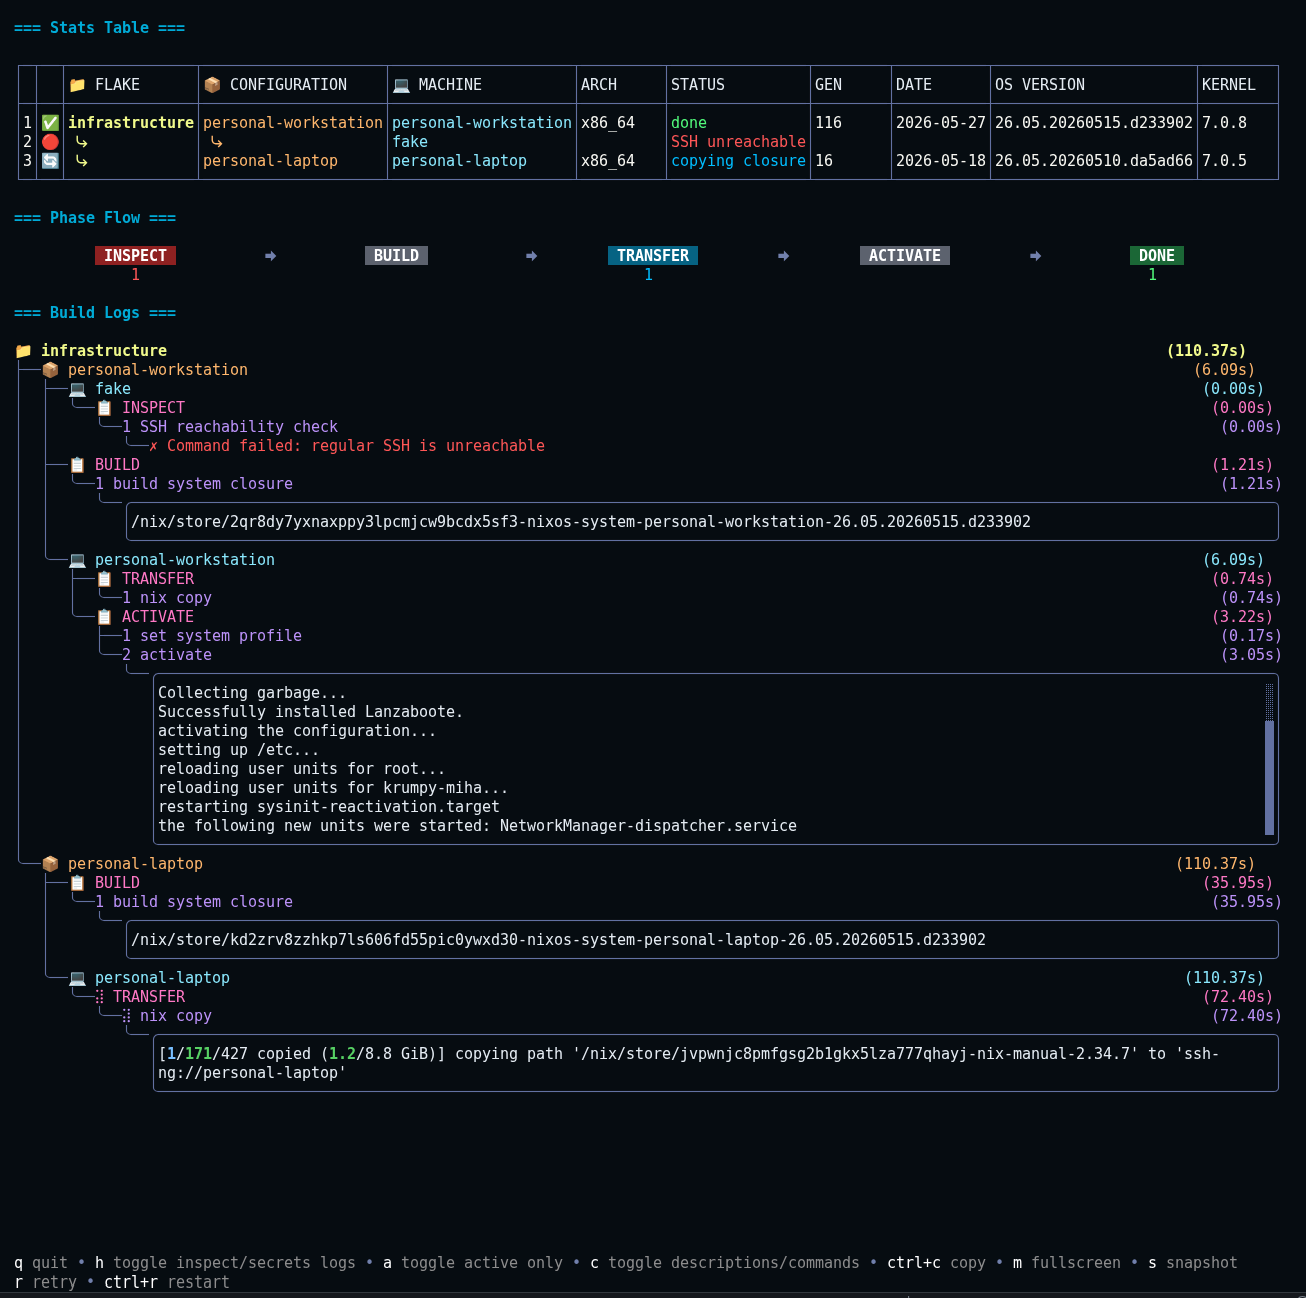
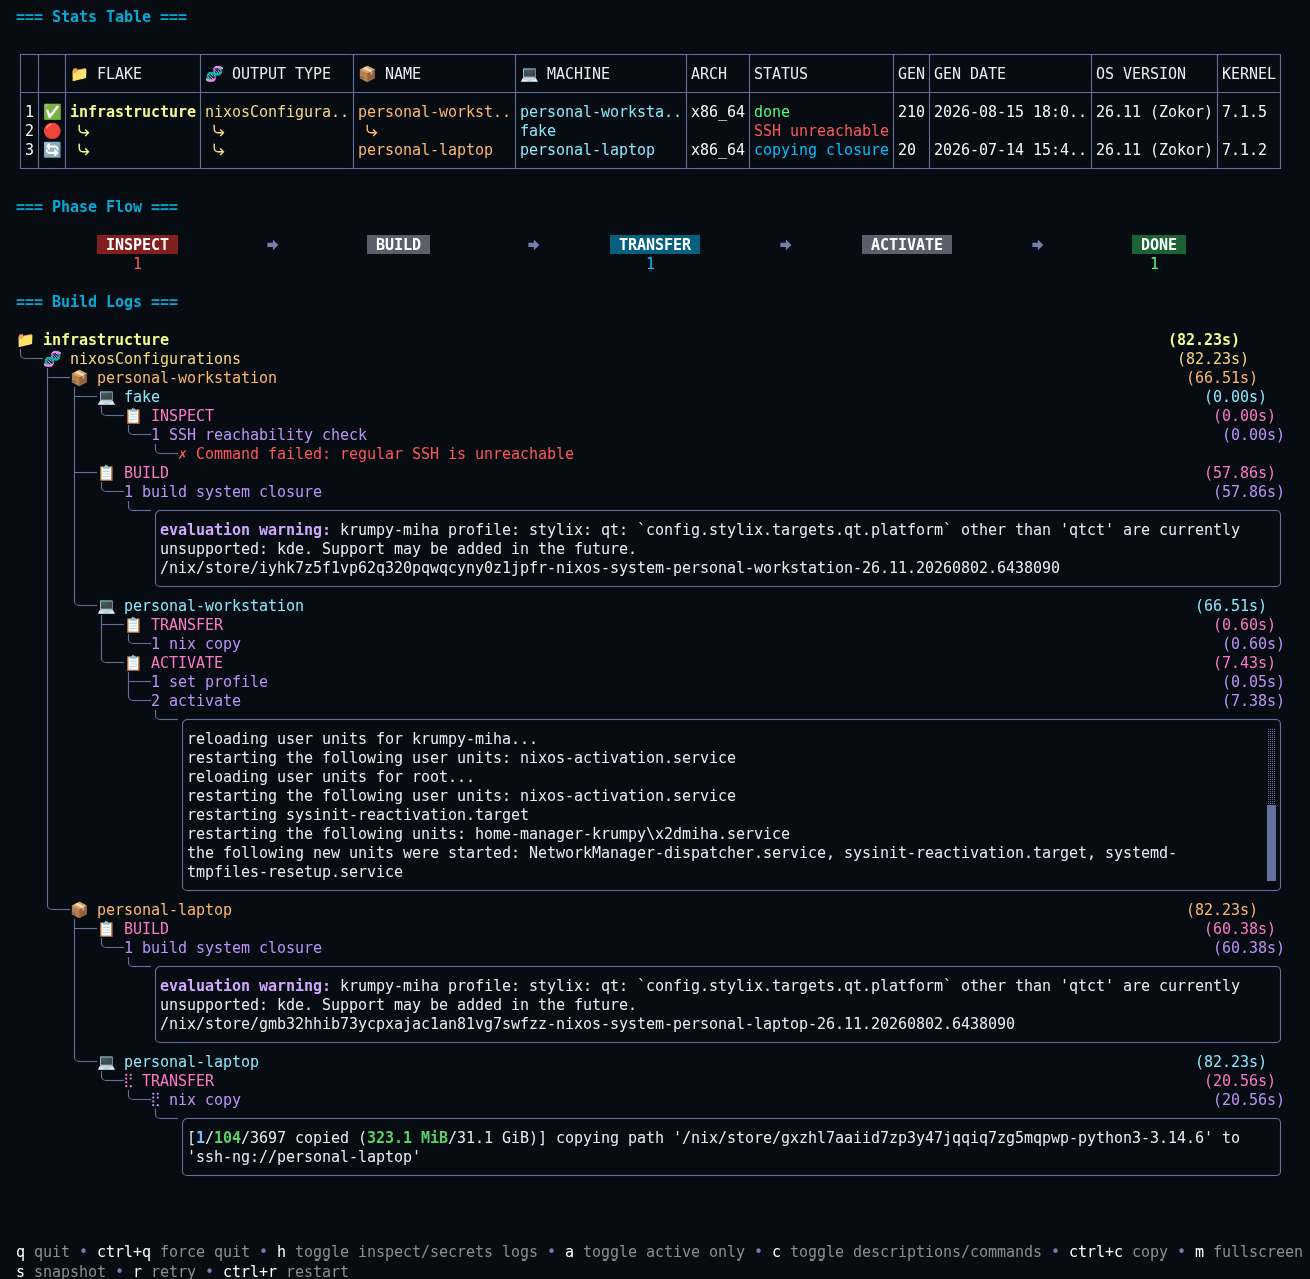
misc: update assets and docs, improve SSH error handling, add optional cachix cache

diff --git a/internal/executioner/ssh.go b/internal/executioner/ssh.go
@@ -3,7 +3,7 @@ package executioner
 func (ex *Executioner) sshStream(description, statusIfRunning, statusIfFailed string, commandWithArgs []string, excOpt *ExecOptions) error {
 	ssh := ex.conf.Machine.GetActiveSSH()
 
-	sshCommandWithArgs := []string{"ssh", "-q"} // Silence banners
+	sshCommandWithArgs := []string{"ssh", "-o", "LogLevel=ERROR"}
 	sshCommandWithArgs = append(sshCommandWithArgs, ssh.MaybeSSHCommandArguments()...)
 	sshCommandWithArgs = append(sshCommandWithArgs, ssh.SSHTarget())
 

diff --git a/CONTRIBUTING.md b/CONTRIBUTING.md
@@ -19,6 +19,10 @@ task
 
 Code has to pass `task ci` checks, if larger or critical sections were changed, then also `task go:test:e2e`.
 
+## Binary cache
+
+CI pushes Nix build results to the [mihakrumpestar Cachix cache](https://app.cachix.org/cache/mihakrumpestar). Pushing requires the `CACHIX_AUTH_TOKEN` secret to be set on the repository; without it the workflow skips pushing and only builds.
+
 ## Testing Conventions
 
 - **Table-driven tests**: use `[]struct{ name string; ... }` with `t.Run(tt.name, func(t *testing.T) { ... })`. See existing tests for examples.
@@ -43,18 +47,24 @@ Future potential/to-do list (by priority):
 
 The following packages were inadequate for use for Panix:
 
-- [bubbletea](https://github.com/charmbracelet/bubbletea): too slow, it is severly unoptimized
+- [bubbletea](https://github.com/charmbracelet/bubbletea): too slow, it is severely unoptimized
 - [Koanf link to issue](https://github.com/knadh/koanf/issues/221)
 - [Viper link to issue](https://github.com/spf13/viper/issues/819)
 - [urfave/cli](https://github.com/urfave/cli): using with [sflags](https://github.com/urfave/sflags) keeps placeholders just as "value" in help, does not properly generate env vars and flag names (have to manually specify them)
-- [nix-fast-build](https://github.com/Mic92/nix-fast-build) instead of `nix build`: speed is about the same, and it does not seem to provide a meaningfull benefit over `nix build`
+- [nix-fast-build](https://github.com/Mic92/nix-fast-build) instead of `nix build`: speed is about the same, and it does not seem to provide a meaningful benefit over `nix build`
 
 ## Demo video
 
 Record using OBS with [these settings](assets/obs), and show keys on screen:
 
 ```sh
-nix-shell -p showmethekey --command showmethekey-gtk
+nix-shell -p showmethekey --command "sudo showmethekey-gtk"
+```
+
+Trim later if needed with:
+
+```sh
+nix run nixpkgs#losslesscut
 ```
 
 ### GIF
@@ -62,7 +72,7 @@ nix-shell -p showmethekey --command showmethekey-gtk
 Convert using ([article](https://www.ffmpeg.media/articles/working-with-gifs-convert-optimize)):
 
 ```sh
-ffmpeg -i demo.mp4 -vf "fps=10,scale=iw*0.8:-1:flags=lanczos,format=rgba,eq=saturation=1:contrast=1.3,split[s0][s1];[s0]palettegen=stats_mode=diff[p];[s1][p]paletteuse=dither=bayer:bayer_scale=5:diff_mode=rectangle" -loop 0 demo.gif
+nix run nixpkgs#ffmpeg -- -i demo.mp4 -vf "fps=10,scale=iw*0.8:-1:flags=lanczos,format=rgba,eq=saturation=1:contrast=1.3,split[s0][s1];[s0]palettegen=stats_mode=diff[p];[s1][p]paletteuse=dither=bayer:bayer_scale=5:diff_mode=rectangle" -loop 0 demo.gif
 ```
 
 ### MP4

diff --git a/README.md b/README.md
@@ -32,7 +32,7 @@
 
 ## Demo
 
-![Demo](https://github.com/user-attachments/assets/55b2a31c-cd79-419b-9f10-63fc9d5130a6)
+![Demo](https://github.com/user-attachments/assets/eb1a5539-65f0-4a75-b5de-5a7988e89036)
 
 Screenshot:
 
@@ -144,6 +144,8 @@ And run it with:
 ```sh
 nix run github:mihakrumpestar/panix -- deploy
 ```
+
+Prebuilt binaries are available from a Cachix cache; see the [installation docs](https://panix.xyz/getting-started/installation/) to opt in.
 
 For the complete schema, see [panix-schema.yaml](gen/panix-schema.yaml).
 
